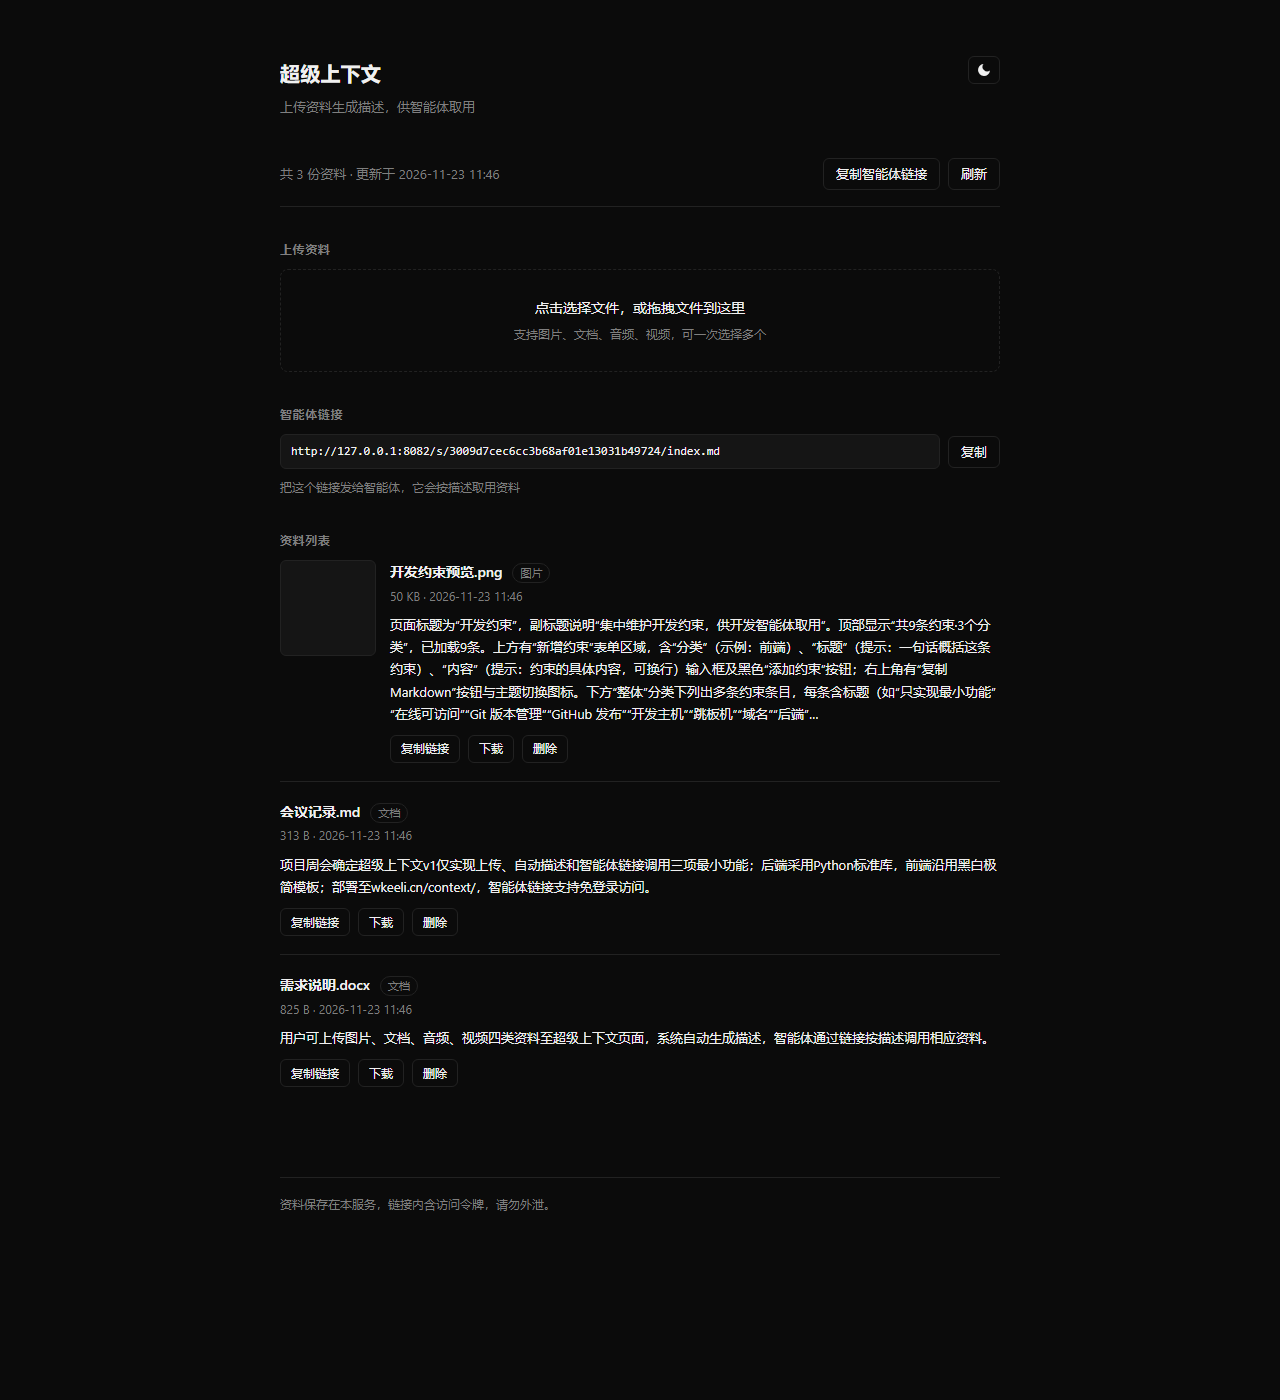
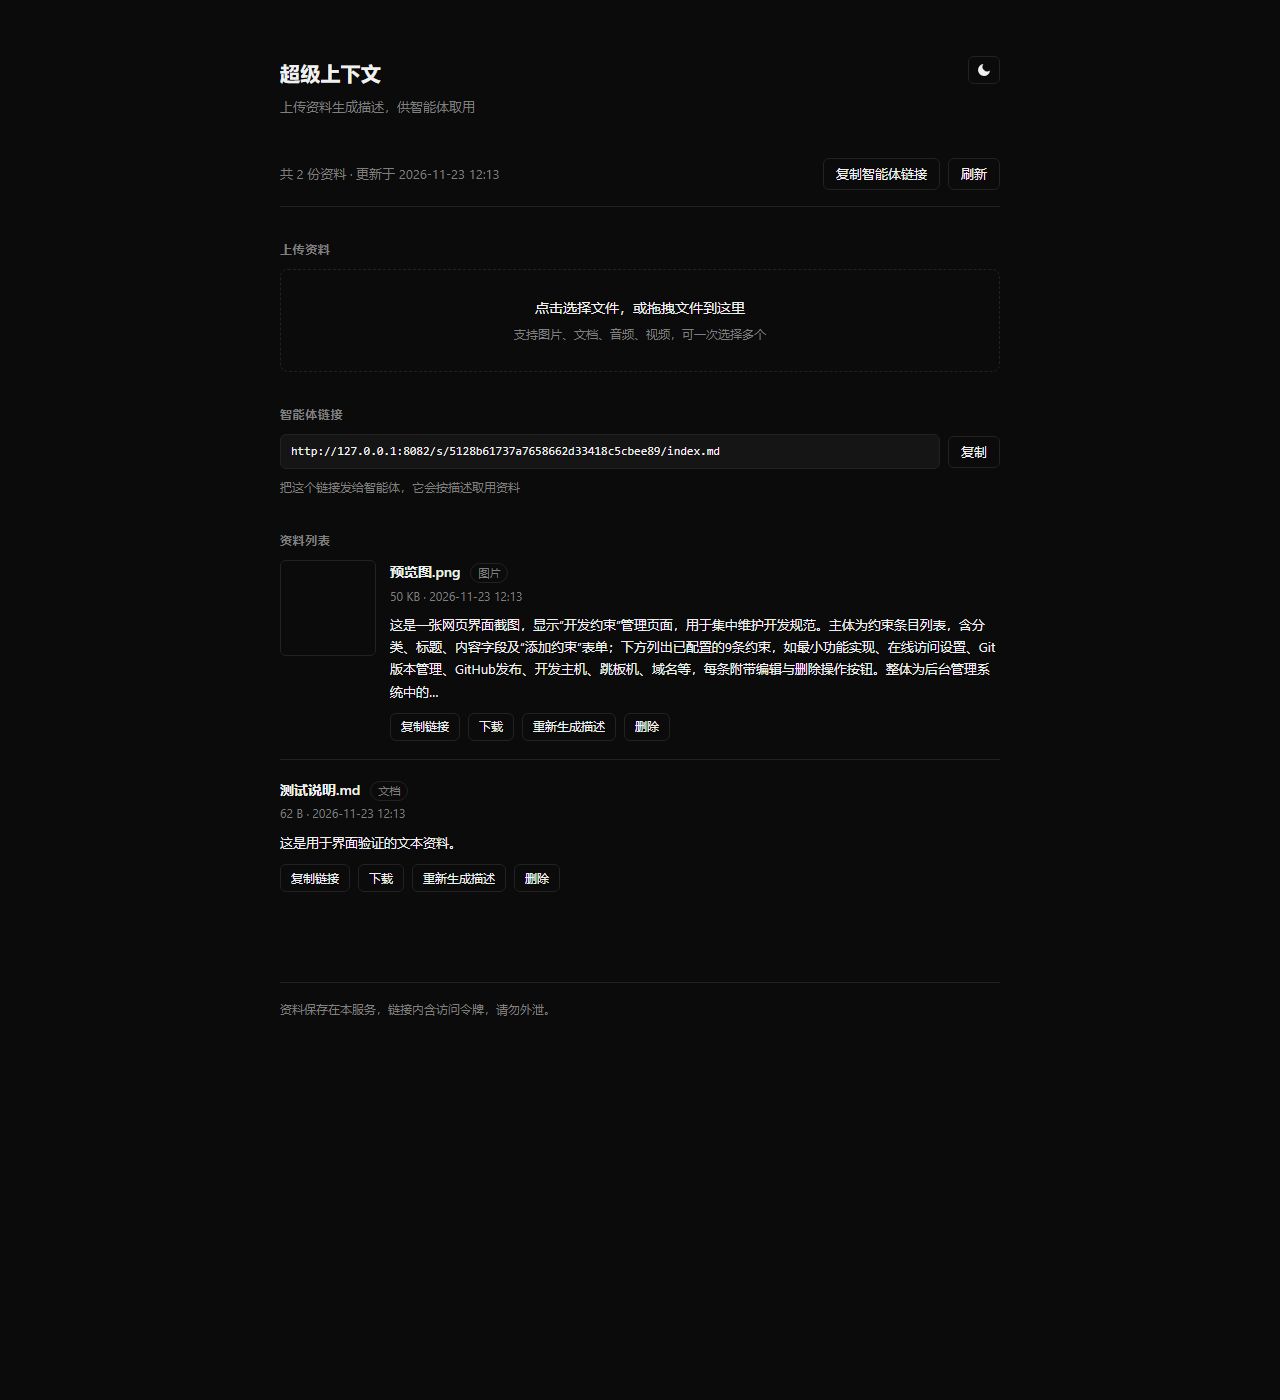
fix: 描述改为检索用简短描述；智能体清单显式返回原图/原始文件
- 图片/视频描述改为简短检索描述（≤150/200 字），证件类不转录隐私字段
- 新增 POST api/items/{id}/redescribe 与页面「重新生成描述」，只更新描述、原始文件不动
- 智能体 index.md/详情：明确「原始文件」返回原始字节（MIME 正确、不转文本），图片带 Markdown 直链
- 更新 README/docs/CONTRACT 与测试（34 项接口测试）

Changed region(s): [[0.2188, 0.5529, 0.7812, 0.7679], [0.3125, 0.3993, 0.7812, 0.5529], [0.375, 0.3071, 0.5, 0.3379]]

diff --git a/web/main.js b/web/main.js
@@ -410,11 +410,15 @@
     copyBtn.type = "button";
     copyBtn.title = "复制这一份资料的详情链接";
     var download = makeEl("a", "btn btn-sm", "下载");
+    var redescBtn = makeEl("button", "btn btn-sm", "重新生成描述");
+    redescBtn.type = "button";
+    redescBtn.title = "只重新生成描述，原始文件保持不变";
     var delBtn = makeEl("button", "btn btn-sm", "删除");
     delBtn.type = "button";
     delBtn.title = "删除这份资料";
     actions.appendChild(copyBtn);
     actions.appendChild(download);
+    actions.appendChild(redescBtn);
     actions.appendChild(delBtn);
 
     body.appendChild(head);
@@ -435,6 +439,7 @@
       player: player,
       copyBtn: copyBtn,
       download: download,
+      redescBtn: redescBtn,
       delBtn: delBtn,
       itemId: item.id,
       itemName: "",
@@ -446,6 +451,9 @@
 
     copyBtn.addEventListener("click", function () {
       copyAndReport(itemLink(refs.itemId), "已复制「" + refs.itemName + "」的链接");
+    });
+    redescBtn.addEventListener("click", function () {
+      redescribeItem(refs);
     });
     delBtn.addEventListener("click", function () {
       removeItem(refs);
@@ -533,6 +541,21 @@
     refs.download.href = rawLink(item.id);
     refs.download.setAttribute("download", refs.itemName);
     refs.download.title = "下载原始文件";
+    refs.redescBtn.disabled = status === "processing";
+  }
+
+  function redescribeItem(refs) {
+    if (refs.redescBtn.disabled) return;
+    refs.redescBtn.disabled = true;
+    setFeedback("正在重新生成「" + refs.itemName + "」的描述…", false);
+    fetchJson("api/items/" + encodeURIComponent(refs.itemId) + "/redescribe", "POST")
+      .then(function () {
+        loadState({ silent: true });
+      })
+      .catch(function (err) {
+        refs.redescBtn.disabled = false;
+        setFeedback("重新生成失败：" + friendlyError(err), true);
+      });
   }
 
   function removeItem(refs) {

diff --git a/server.py b/server.py
@@ -142,6 +142,11 @@ def fmt_size(size) -> str:
     return "%.1f PB" % number
 
 
+def md_alt(name: str) -> str:
+    """Markdown 图片的 alt 文本：去掉会破坏语法的方括号与换行。"""
+    return str(name).replace("[", "(").replace("]", ")").replace("\n", " ").strip()
+
+
 def classify_name(name: str) -> str:
     """文件类型：优先用 describe.classify，缺失时用内置扩展名表。"""
     if describe_module is not None:
@@ -469,6 +474,21 @@ class ItemStore:
 
         self._mutate(operation)
 
+    def mark_processing(self, item_id: str) -> dict:
+        """重新生成描述前重置状态；原始文件保持不变。"""
+        def operation(items):
+            for item in items:
+                if item["id"] == item_id:
+                    item["status"] = "processing"
+                    item["description"] = ""
+                    item["content"] = ""
+                    item["error"] = ""
+                    item["updated_at"] = now_iso()
+                    return dict(item)
+            raise NotFound("资料不存在")
+
+        return self._mutate(operation)
+
     def update_item(self, item_id: str, updates: dict) -> dict:
         def operation(items):
             for item in items:
@@ -680,11 +700,24 @@ class Handler(BaseHTTPRequestHandler):
         return item_id
 
     @staticmethod
+    def _redescribe_id(path: str):
+        prefix = "/api/items/"
+        suffix = "/redescribe"
+        if not path.startswith(prefix) or not path.endswith(suffix):
+            return None
+        item_id = path[len(prefix):-len(suffix)]
+        if not item_id or "/" in item_id:
+            return None
+        return item_id
+
+    @staticmethod
     def _allowed_methods(path: str):
         """已知路径允许的方法；未知路径返回 None。"""
         if path in ("/healthz", "/api/state"):
             return "GET"
         if path == "/api/items":
+            return "POST"
+        if Handler._redescribe_id(path) is not None:
             return "POST"
         if Handler._item_id(path) is not None:
             return "PATCH, DELETE"
@@ -731,6 +764,8 @@ class Handler(BaseHTTPRequestHandler):
         path = self._request_path()
         if path == "/api/items":
             self._handle_upload()
+        elif self._redescribe_id(path) is not None:
+            self._handle_redescribe(self._redescribe_id(path))
         else:
             self._reject_wrong_method(path)
 
@@ -851,6 +886,18 @@ class Handler(BaseHTTPRequestHandler):
         log_out("[%s] 收到上传：%s（%s，%s）" % (now_iso(), name, KIND_LABELS.get(kind), fmt_size(written)))
         self._send_json(201, {"item": item})
 
+    def _handle_redescribe(self, item_id: str) -> None:
+        """仅重新生成描述，原始文件保持不动。"""
+        store = self.server.store
+        item = store.get_item(item_id)
+        path = store.file_path(item)
+        if not os.path.isfile(path):
+            raise NotFound("文件不存在")
+        item = store.mark_processing(item_id)
+        self.server.worker.submit(item_id, path, item["name"])
+        log_out("[%s] 重新生成描述：%s" % (now_iso(), item["name"]))
+        self._send_json(202, {"item": item})
+
     # ---- 智能体分享 ----
 
     def _serve_share(self, path: str) -> None:
@@ -888,8 +935,9 @@ class Handler(BaseHTTPRequestHandler):
             "# 超级上下文 · 资料清单",
             "",
             "> 共 %d 份资料 · 更新于 %s" % (len(items), fmt_time(state["updated_at"])),
-            "> 使用方式：阅读每份资料的「描述」，需要哪份就 GET 该条的「资料链接」获取原始文件；"
-            "需要文字内容/转写时 GET「详情链接」。",
+            "> 使用方式：阅读每份资料的「描述」判断是否相关；需要素材本身时 GET 该条的「原始文件」——",
+            "> 返回上传时的原始字节（图片 / 音频 / 视频保持原样，Content-Type 正确，不会转成文本），",
+            "> 智能体可直接下载后用多模态模型处理。文字信息（文档摘要、音频转写、视频画面概述）见「详情链接」。",
             "> 链接已含访问令牌，直接请求即可，无需账号密码。",
         ]
         for index, item in enumerate(items, 1):
@@ -907,12 +955,17 @@ class Handler(BaseHTTPRequestHandler):
             lines.extend([
                 "",
                 "## %d. %s（%s）" % (index, item["name"], label),
-                "- 资料链接：%s/files/%s" % (base, item["id"]),
+                "- 原始文件：%s/files/%s" % (base, item["id"]),
                 "- 详情链接：%s/items/%s.md" % (base, item["id"]),
-                "- 类型：%s · 大小：%s · 上传：%s"
-                % (label, fmt_size(item["size"]), fmt_time(item["created_at"])),
+                "- 类型：%s · MIME：%s · 大小：%s · 上传：%s"
+                % (label, item["mime"] or "未知",
+                   fmt_size(item["size"]), fmt_time(item["created_at"])),
                 "- 描述：%s" % description,
             ])
+            if item["kind"] == "image":
+                # 支持渲染 Markdown 图片的智能体可直接看到原图
+                lines.append("- 图片：![%s](%s/files/%s)"
+                             % (md_alt(item["name"]), base, item["id"]))
         return "\n".join(lines) + "\n"
 
     def _share_index_json(self) -> dict:
@@ -931,6 +984,7 @@ class Handler(BaseHTTPRequestHandler):
                 "error": item["error"],
                 "created_at": item["created_at"],
                 "files_url": "%s/files/%s" % (base, item["id"]),
+                "original_url": "%s/files/%s" % (base, item["id"]),
                 "detail_url": "%s/items/%s.md" % (base, item["id"]),
             })
         return {
@@ -944,21 +998,31 @@ class Handler(BaseHTTPRequestHandler):
         label = KIND_LABELS.get(item["kind"], "其他")
         description = item["description"].strip() or "（无描述）"
         content = item["content"].strip()
+        raw_url = "%s/files/%s" % (base, item["id"])
         lines = [
             "# %s" % item["name"],
             "",
-            "- 类型：%s" % label,
+            "- 类型：%s · MIME：%s" % (label, item["mime"] or "未知"),
             "- 大小：%s" % fmt_size(item["size"]),
             "- 上传：%s" % fmt_time(item["created_at"]),
-            "- 资料链接：%s/files/%s" % (base, item["id"]),
             "",
-            "## 描述",
+            "## 原始文件",
             "",
-            description,
+            "- 链接：%s" % raw_url,
+            "- 说明：返回上传时的原始字节（未转文本），可直接下载或交给多模态模型处理。",
         ]
+        if item["kind"] == "image":
+            lines.extend(["", "![%s](%s)" % (md_alt(item["name"]), raw_url)])
+        lines.extend(["", "## 描述", "", description])
         if item["status"] == "error":
             lines.extend(["", "> 描述生成失败：%s" % (item["error"] or "未知原因")])
-        lines.extend(["", "## 内容", "", content or "（无可提取文本内容）"])
+        if content:
+            lines.extend(["", "## 内容（辅助文本，可选）", "", content])
+        elif item["kind"] == "image":
+            lines.extend(["", "## 内容（辅助文本，可选）", "",
+                          "（图片没有辅助文本：请直接使用上面的「原始文件」，把图片交给模型处理。）"])
+        else:
+            lines.extend(["", "## 内容（辅助文本，可选）", "", "（无辅助文本内容）"])
         return "\n".join(lines) + "\n"
 
     def _serve_raw(self, item_id: str) -> None:

diff --git a/test_server.py b/test_server.py
@@ -269,7 +269,6 @@ class PatchDeleteTest(ServerTestCase):
 
 
 class ShareTest(ServerTestCase):
-
     def test_share_index_markdown(self):
         _, payload, _ = self.upload("图.png", b"pngdata")
         item = self.wait_status(payload["item"]["id"])
@@ -280,8 +279,13 @@ class ShareTest(ServerTestCase):
         text = data.decode("utf-8")
         self.assertIn("图.png", text)
         self.assertIn("描述：图.png", text)
+        self.assertIn("- 原始文件：", text)
+        self.assertIn("MIME：image/png", text)
         self.assertIn("https://example.test/context/s/%s/files/%s" % (token, item["id"]), text)
         self.assertIn("https://example.test/context/s/%s/items/%s.md" % (token, item["id"]), text)
+        # 图片在清单里带 Markdown 图片直链，支持渲染图片的智能体可直接取原图
+        self.assertIn("![图.png](https://example.test/context/s/%s/files/%s)"
+                      % (token, item["id"]), text)
 
     def test_share_index_json(self):
         _, payload, _ = self.upload("j.txt", b"j")
@@ -326,6 +330,33 @@ class ShareTest(ServerTestCase):
         self.assertEqual(response.status, 404)
         response, _ = self.request("GET", "/s/%s/nope" % token)
         self.assertEqual(response.status, 404)
+
+
+class RedescribeTest(ServerTestCase):
+    """重新生成描述：只更新描述，原始文件字节不变。"""
+
+    def test_redescribe_regenerates_description(self):
+        _, payload, _ = self.upload("r.txt", b"hello")
+        item = self.wait_status(payload["item"]["id"])
+        self.json_request("PATCH", "/api/items/%s" % item["id"],
+                          {"description": "旧描述"})
+        response, payload, _ = self.json_request(
+            "POST", "/api/items/%s/redescribe" % item["id"])
+        self.assertEqual(response.status, 202)
+        self.assertEqual(payload["item"]["status"], "processing")
+        regenerated = self.wait_status(item["id"])
+        self.assertEqual(regenerated["description"], "描述：r.txt")
+        _, raw = self.request("GET", "/api/items/%s/raw" % item["id"])
+        self.assertEqual(raw, b"hello")
+
+    def test_redescribe_unknown_item(self):
+        response, body, _ = self.json_request("POST", "/api/items/deadbeef/redescribe")
+        self.assertEqual(response.status, 404)
+
+    def test_redescribe_wrong_method(self):
+        response, _, _ = self.json_request("GET", "/api/items/deadbeef/redescribe")
+        self.assertEqual(response.status, 405)
+        self.assertEqual(response.getheader("Allow"), "POST")
 
 
 class StaticAndMethodTest(ServerTestCase):

diff --git a/describe.py b/describe.py
@@ -55,10 +55,10 @@ _IMAGE_MAX_BYTES = 8 * 1024 * 1024
 
 # 描述长度上限（契约）
 _DESC_LIMITS = {
-    "image": 250,
+    "image": 150,
     "document": 120,
     "audio": 120,
-    "video": 300,
+    "video": 200,
     "other": 300,
 }
 
@@ -668,15 +668,18 @@ def _image_data_url(path: str, name: str, temp_dir: str, settings: Settings) -> 
 
 
 _IMAGE_PROMPT = (
-    "请用简体中文描述这张图片：主体/人物/物体、场景环境、"
-    "图中可见文字（如能辨认请照抄原文，不要臆造）、整体风格与可能用途。"
-    "不超过250字；只输出描述正文，不要标题、不要列表、不要 Markdown。"
+    "请用简体中文写一段图片描述，供他人判断这张图片是否与任务相关："
+    "说明它是什么（照片 / 截图 / 证件 / 图表 / 票据等）、主体与场景、大致用途或关键主题。"
+    "不要逐字转录图中文字；涉及证件、票据、简历等含个人信息的图片时，"
+    "只概括文件类型和用途，绝对不要输出证件号码、住址、电话、邮箱等隐私字段。"
+    "不超过150字；只输出描述正文，不要标题、不要列表、不要 Markdown。"
 )
 
 _VIDEO_PROMPT = (
-    "这些是从同一段视频中按时间顺序均匀抽取的画面帧。请用简体中文综合描述视频内容："
-    "画面主体与场景、关键动作或变化、可见文字（照抄原文）、整体风格与可能用途。"
-    "不超过250字；只输出描述正文，不要标题、不要列表、不要 Markdown。"
+    "这些是从同一段视频中按时间顺序均匀抽取的画面帧。请用简体中文写一段不超过200字的视频内容描述："
+    "画面主体与场景、关键动作或变化、大致主题或用途，便于他人判断是否相关。"
+    "不要逐字转录画面文字/字幕，不要输出个人信息。"
+    "只输出描述正文，不要标题、不要列表、不要 Markdown。"
 )
 
 _PDF_OCR_PROMPT = (

diff --git a/docs/CONTRACT.md b/docs/CONTRACT.md
@@ -82,7 +82,7 @@ def describe_file(path: str, name: str, settings: Settings) -> dict:
 
 | 类型 | 处理 |
 | --- | --- |
-| 图片 `image` | `qwen3-vl-plus` 中文描述：主体、场景、图中文字（OCR 原文）、风格/用途，≤250 字。`content` 可为空字符串 |
+| 图片 `image` | `qwen3-vl-plus` 写**用于检索的简短描述**：是什么图片/主体/场景/用途，≤150 字；**不要逐字转录图中文字**，证件/票据/简历等含个人信息的图片只概括类型与用途，不输出号码、住址、电话等隐私字段；`content` 为空字符串（图片细节由智能体获取原图后自行处理） |
 | 文档 `document` | 先提取文本：纯文本类直接 decode（utf-8 → gbk 兜底）；`.docx` 用 zipfile 读 `word/document.xml`；`.pptx` 读幻灯片 `a:t`；`.xlsx` 读 `sharedStrings.xml`（+ inline strings）；`.pdf` 用 `pdftotext -layout`（无命令时用 `pdftoppm` 渲前 3 页 → `qwen3-vl-plus` 识图；都没有则报错"PDF 文本提取不可用"）。提取结果截断到 `max_text_chars` 作为 `content`；再用 `qwen-plus` 写 ≤120 字描述。文本为空且无法识图时给出兜底描述 |
 | 音频 `audio` | ffprobe 取时长；ffmpeg 转 16k 单声道 wav；>240s 按 240s 分段 ASR 后拼接（总时长 >30 分钟只转前 30 分钟并注明）。`content` = 转写全文，`description` = `qwen-plus` ≤120 字摘要 |
 | 视频 `video` | 见上 |
@@ -101,6 +101,7 @@ def describe_file(path: str, name: str, settings: Settings) -> dict:
 | GET | `api/state` | `{updated_at, token, items:[...]}` |
 | POST | `api/items?name=<urlencoded>` | 请求体=文件原始字节；201 返回 `{item}`，item.status=processing |
 | PATCH | `api/items/{id}` | JSON `{name?, description?, content?}` → `{item}` |
+| POST | `api/items/{id}/redescribe` | 重新生成该条描述（原始文件不动）→ 202 `{item}`（status=processing） |
 | DELETE | `api/items/{id}` | 删除条目与文件 → `{ok:true}` |
 | GET | `api/items/{id}/raw` | 原始文件（Content-Type 按 mime，inline） |
 | GET | `healthz` | `{ok:true}` |
@@ -121,17 +122,21 @@ def describe_file(path: str, name: str, settings: Settings) -> dict:
 # 超级上下文 · 资料清单
 
 > 共 N 份资料 · 更新于 2026-11-23 11:30
-> 使用方式：阅读每份资料的「描述」，需要哪份就 GET 该条「资料链接」下载原始文件；需要文字内容/转写时 GET「详情链接」。
+> 使用方式：阅读每份资料的「描述」判断是否相关；需要素材本身时 GET 该条的「原始文件」——
+> 返回上传时的原始字节（图片 / 音频 / 视频保持原样，Content-Type 正确，不会转成文本），
+> 智能体可直接下载后用多模态模型处理。文字信息见「详情链接」。
 > 链接已含访问令牌，直接请求即可，无需账号密码。
 
 ## 1. 文件名（图片）
-- 资料链接：https://wkeeli.cn/context/s/<token>/files/<id>
+- 原始文件：https://wkeeli.cn/context/s/<token>/files/<id>
 - 详情链接：https://wkeeli.cn/context/s/<token>/items/<id>.md
-- 类型：图片 · 大小：1.2 MB · 上传：2026-11-23 11:30
+- 类型：图片 · MIME：image/jpeg · 大小：1.2 MB · 上传：2026-11-23 11:30
 - 描述：……
+- 图片：![文件名](https://wkeeli.cn/context/s/<token>/files/<id>)
 ```
 
 - 安全/健壮性：文件名去路径与控制字符；静态目录防穿越；请求体上限 413；未知 API 404、方法错 405；全部错误 `{"error":"中文原因"}`；JSON 原子落盘（临时文件 + os.replace）；上传后后台线程生成描述，前端轮询。
+- 原始文件必须原样保存、原样返回（不做转码/转文本）；描述与 `content` 只是检索与辅助信息。
 
 ## 5. web 前端（web-ui 交付）
 
